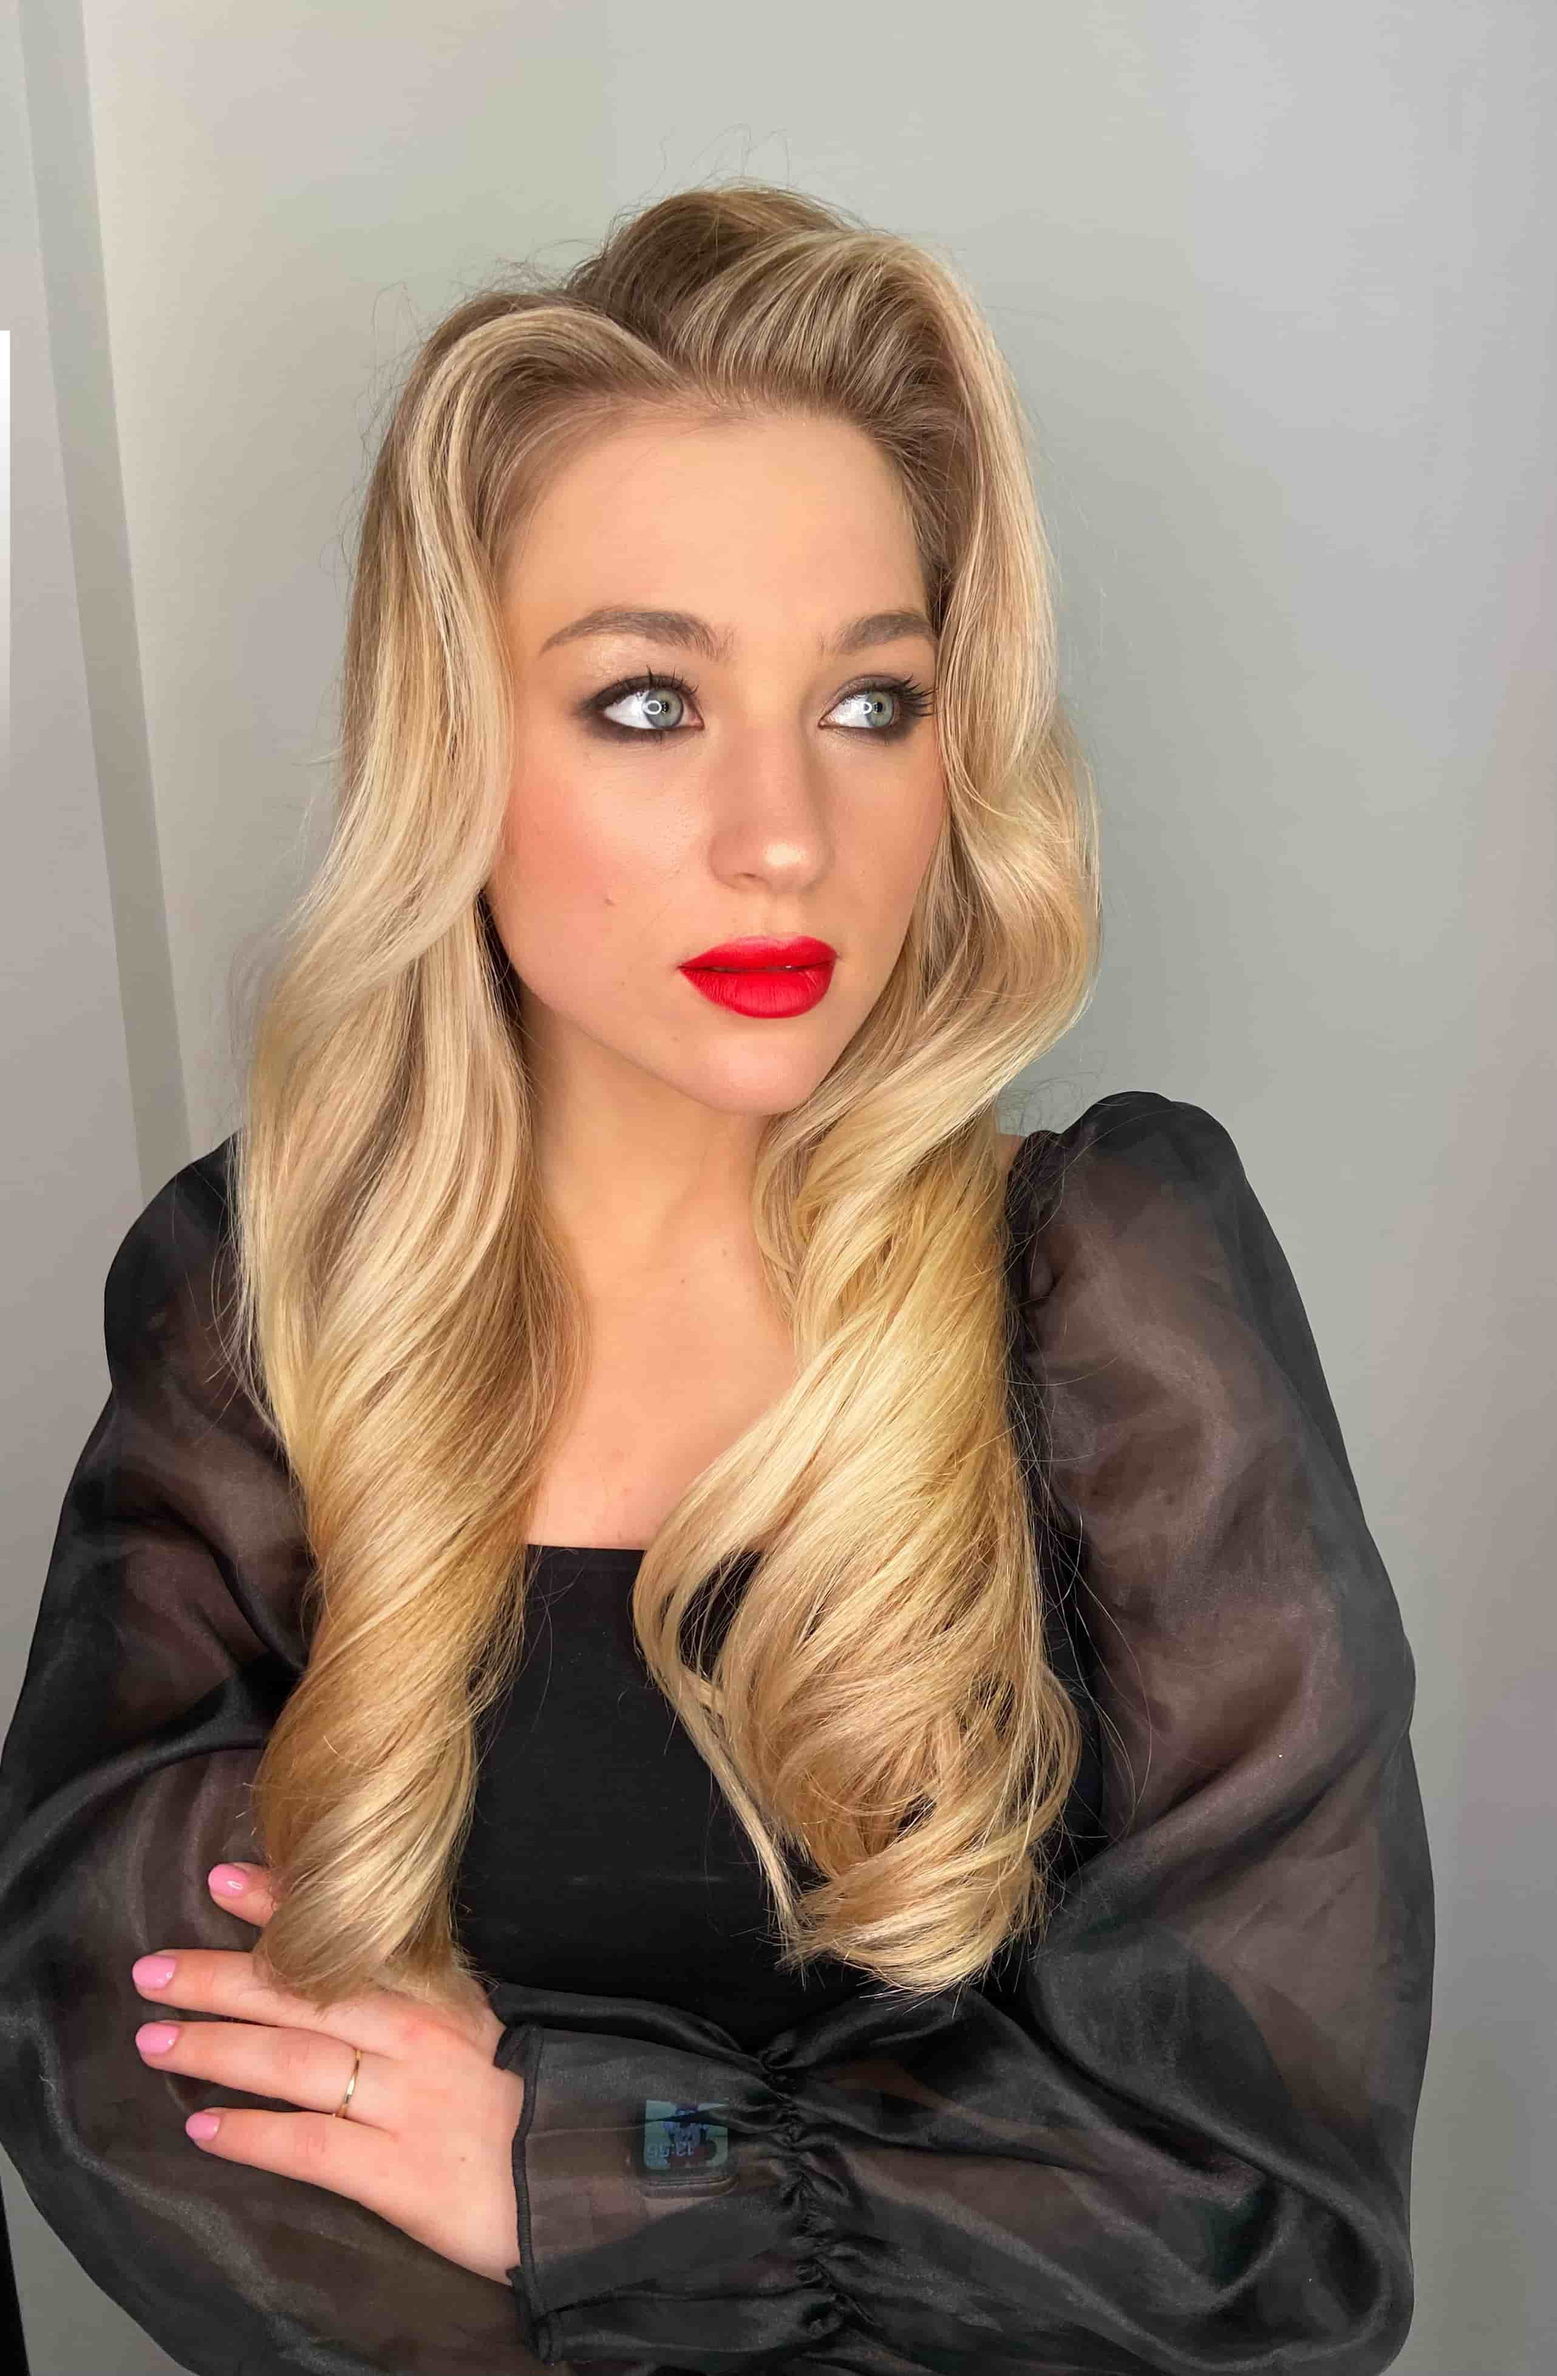
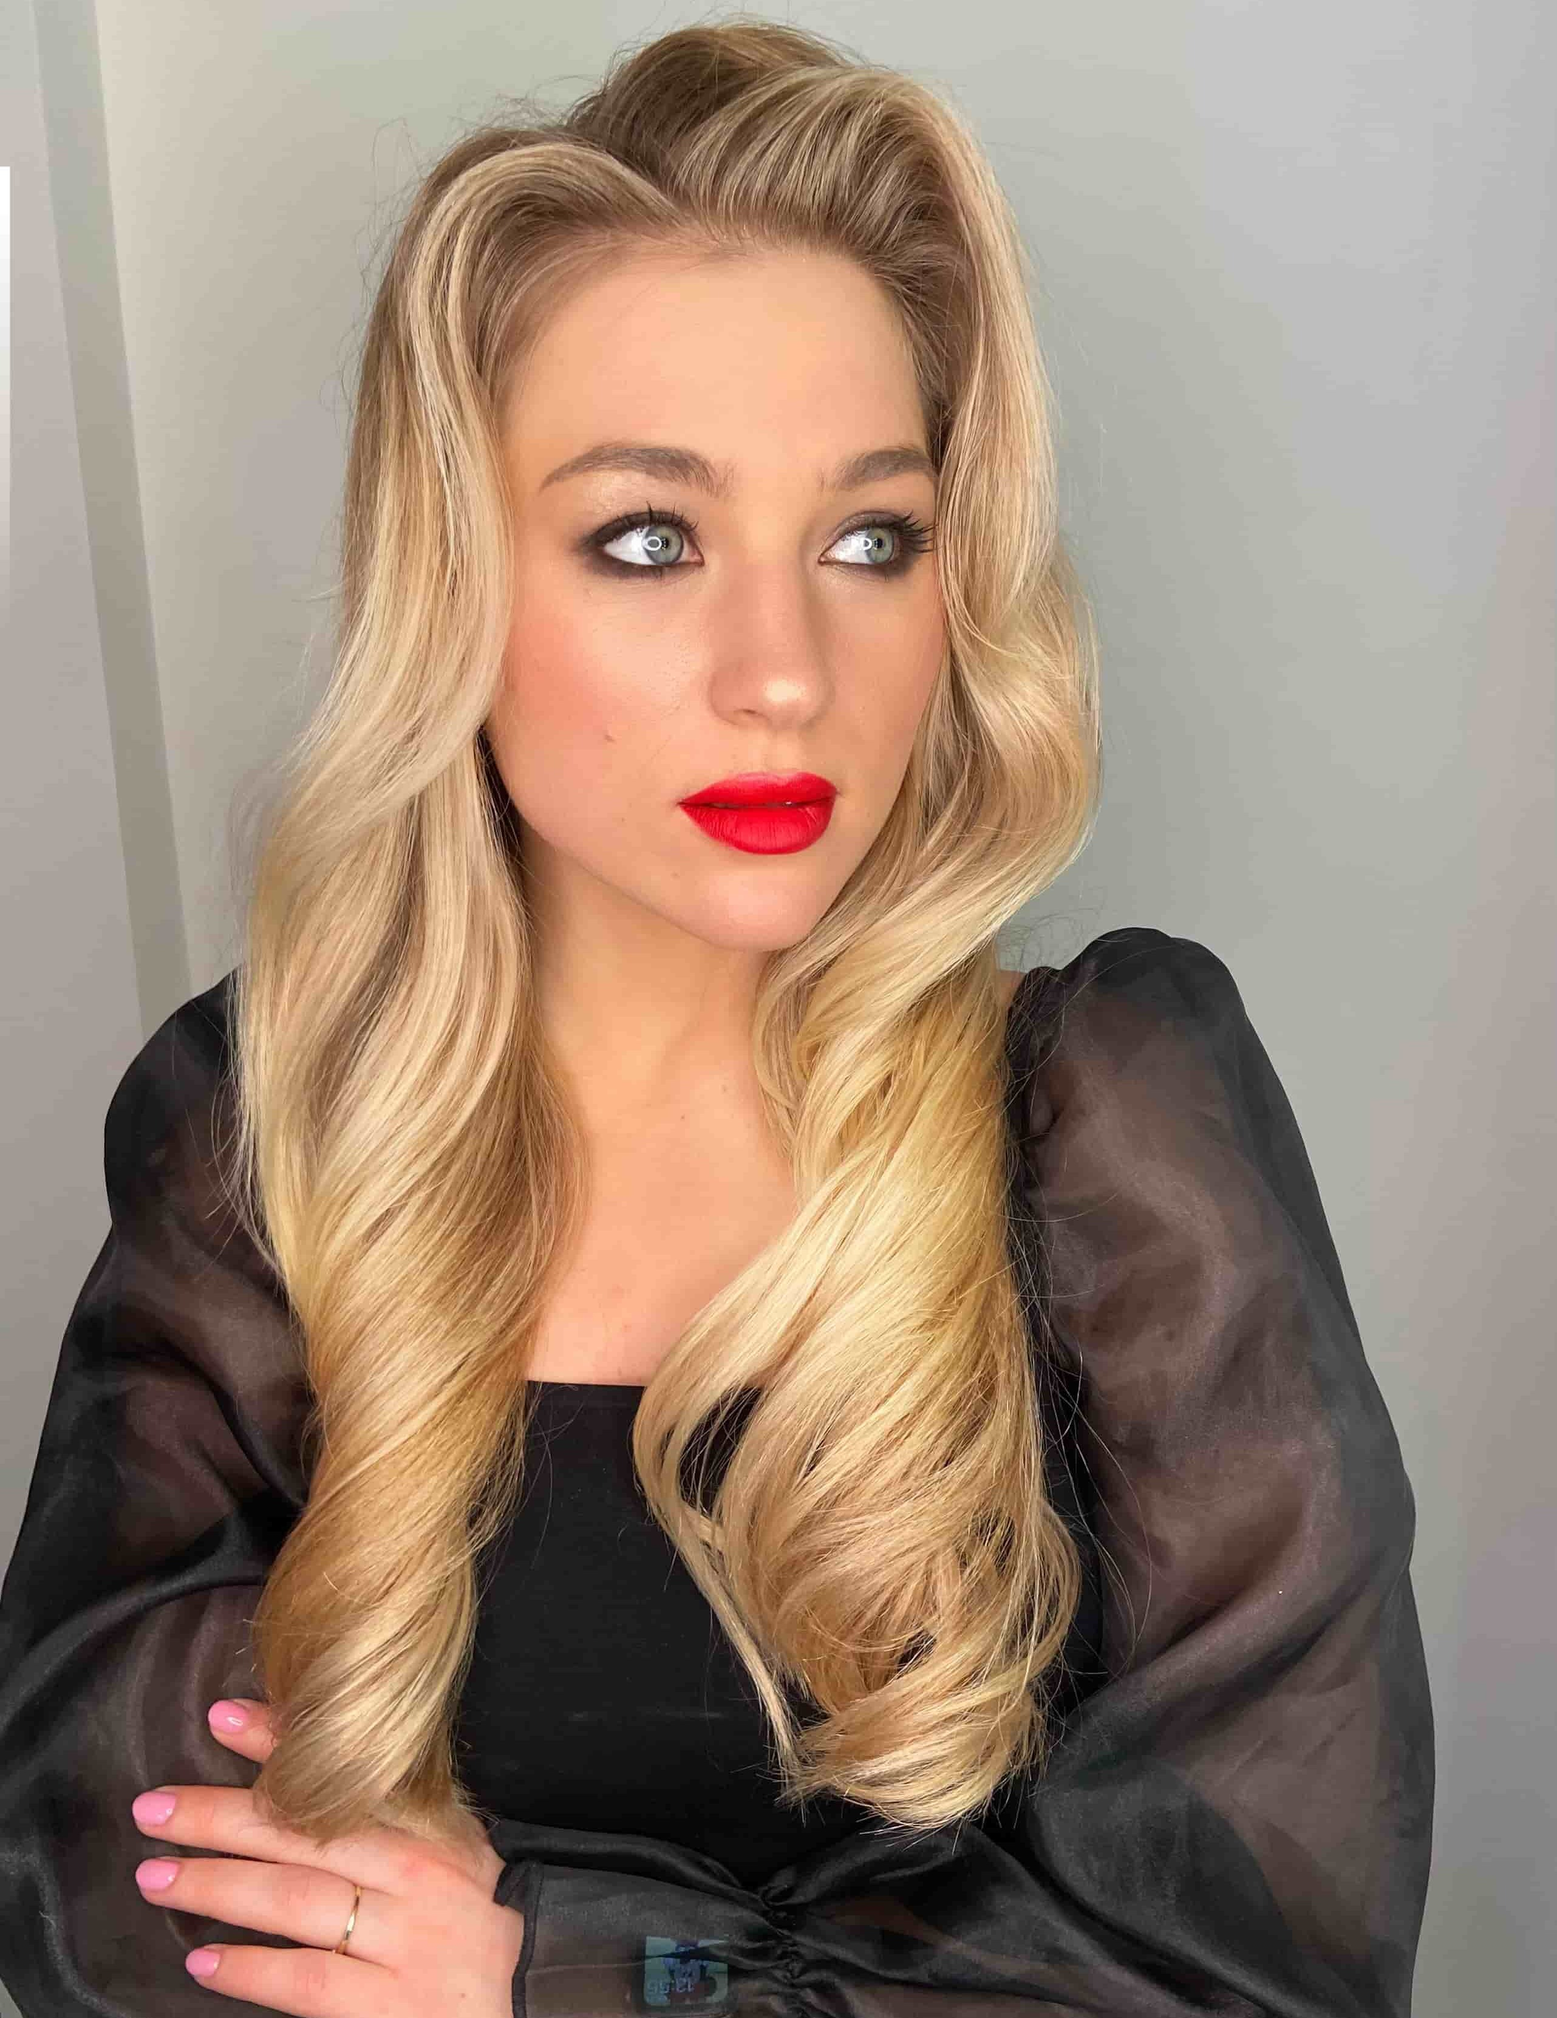
fixed event cover photo

diff --git a/src/components/Header/ModalMenu/ModalMenu.tsx b/src/components/Header/ModalMenu/ModalMenu.tsx
@@ -1,6 +1,4 @@
-// import { Link } from 'react-router-dom';
 import './ModalMenu.css';
-// import { HashLink } from 'react-router-hash-link';
 import { useEffect, useRef } from 'react';
 import { ANCORS_DATA } from '@/lib/const';
 import { MenuItem } from './MenuItem/MenuItem';
@@ -15,51 +13,39 @@ export const ModalMenu = ({modalMenuOpen, setModalMenuOpen}: Props) => {
   
   const menuRef = useRef<HTMLUListElement>(null);
 
-  const handleClickOutside = (e: MouseEvent ) => {
-    if (menuRef.current && !menuRef.current.contains(e.target as Node)) {
-      setModalMenuOpen(false)
-    }
-  }
 
-  useEffect(()=> {
-    document.addEventListener('mousedown', handleClickOutside);
-    return () => document.removeEventListener('mousedown', handleClickOutside)
-  }, [])
+
+   useEffect(() => {
+    if (modalMenuOpen) {
+      document.body.style.overflow = 'hidden';
+    } else {
+      document.body.style.overflow = 'auto';
+    }
+    return () => {
+      document.body.style.overflow = 'auto';
+    };
+  }, [modalMenuOpen]);
+
+  // const handleClickOutside = (e: MouseEvent ) => {
+  //   if (menuRef.current 
+  //     && e.target
+  //     // && e.target.classList.contains('header__menu-toggle') 
+  //     && !menuRef.current.contains(e.target as Node)
+  //   ) 
+  //     {
+  //     setModalMenuOpen(false)
+  //   }
+  // }
+
+  // useEffect(()=> {
+  //   document.addEventListener('mousedown', handleClickOutside);
+  //   return () => document.removeEventListener('mousedown', handleClickOutside)
+  // }, [])
 
 
   const menuEl = <nav ref={menuRef} className="modal-menu slide-in-right">
       <ul className="modal-menu__list">
-        {ANCORS_DATA.map(ancor => <MenuItem ancorData={ancor} setModalMenuOpen={setModalMenuOpen}/>)}
-        {/* <li className="modal-menu__item" >
-          <HashLink smooth to="/" className="modal-menu__link">
-            Главная
-          </HashLink>
-        </li>
-        <li className="modal-menu__item ">
-          <HashLink smooth to="/#about" className="modal-menu__link">
-            О нас
-          </HashLink>
-        </li>
-        <li className="modal-menu__item">
-          <HashLink smooth to="/#gallery" className="modal-menu__link">
-            Галерея
-          </HashLink>
-        </li>
-        <li className="modal-menu__item">
-          <HashLink smooth to="/#advantages" className="modal-menu__link">
-            Преимущества
-          </HashLink>
-        </li>
-        <li className="modal-menu__item">
-          <HashLink smooth to="/#achievments" className="modal-menu__link">
-            Достижения
-          </HashLink>
-        </li>
-        <li className="modal-menu__item">
-          <HashLink smooth to="/#services" className="modal-menu__link">
-            Услуги
-          </HashLink>
-        </li> */}
+        {ANCORS_DATA.map(ancor => <MenuItem key={ancor.path} ancorData={ancor} setModalMenuOpen={setModalMenuOpen}/>)}
       </ul>
     </nav>
   

diff --git a/src/components/Footer/Footer.tsx b/src/components/Footer/Footer.tsx
@@ -34,22 +34,22 @@ export const Footer = () => {
           <div className="footer__social-media">
             <ul className="social-media__list">
               <li className="social-media__item">
-                <a className="nav__link" href="https://www.instagram.com/boyarinova_studio?igshid=YmMyMTA2M2Y%3D">
+                <Link to="https://www.instagram.com/boyarinova_studio?igshid=YmMyMTA2M2Y%3D" className="nav__link" >
                   Instagram
-                </a>
+                </Link>
               </li>
               <li className="social-media__item">
-                <a className="nav__link" href="https://t.me/BoyarinovaAn">Telegram</a>
+                <Link to="https://t.me/BoyarinovaAn" className="nav__link" >Telegram</Link>
               </li>
               <li className="social-media__item">
-                <a className="nav__link" href="https://wa.me/89037522505">Whatsapp</a>
+                <Link to="https://wa.me/89037522505" className="nav__link">Whatsapp</Link>
               </li>
             </ul>
           </div>
           <div className="footer__contacts">
             <ul className="contacts__list">
               <li className="contacts__item">
-                <a className="nav__link" href="tel:+79037522505">8-903-752-25-05</a>
+                <Link to="tel:+79037522505" className="nav__link" >8-903-752-25-05</Link>
               </li>
               <li className="contacts__item ">
                 г. Москва, <br /> ул. Высокая 8, 1 этаж

diff --git a/src/components/Header/Header.tsx b/src/components/Header/Header.tsx
@@ -24,13 +24,12 @@ export const Header = () => {
         <div className="header__right-box">
           <DesktopNav />
           <div className="header__contacts">
-            <a
+            <Link to="https://www.instagram.com/boyarinova_studio?igshid=YmMyMTA2M2Y%3D"
               className="instagram-link"
-              href="https://www.instagram.com/boyarinova_studio?igshid=YmMyMTA2M2Y%3D"
-            ></a>
-            <a className="phone-num" href="tel:+79037522505">
+            ></Link>
+            <Link to="tel:+79037522505" className="phone-num">
               8-903-752-25-05
-            </a>
+            </Link>
           </div>
           <button className="header__menu-toggle" onClick={handleNavToggleClick}>
             {!modalMenuOpen ? <FontAwesomeIcon icon={faBars} style={{color: "#363636",width: "20px", height: "20px",}} /> : <FontAwesomeIcon icon={faX} style={{color: "#363636", width: "20px", height: "20px",}} />}

diff --git a/src/components/MainSection/Portfolio/Portfolio.css b/src/components/MainSection/Portfolio/Portfolio.css
@@ -8,15 +8,18 @@
 }
 
 .portfolio__item {
-  max-width: 265px;
+  /* width: 265px;
+  height: 350px; */
 }
 
-.portfolio____cover-img {
-  max-width: 265px;
+.portfolio__cover-img {
+  width: 265px;
+  height: 350px;
 }
 
 .portfolio__cover-img img {
   width: 100%;
+  height: 100%;
   border-radius: 8px;
 }
 
